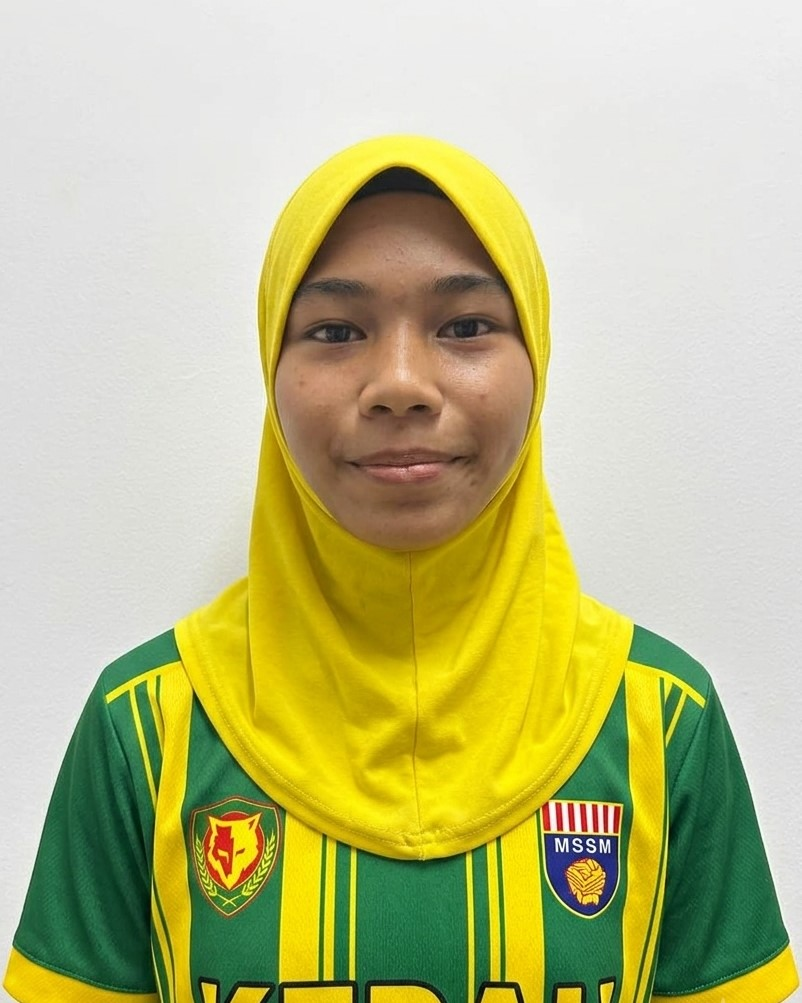
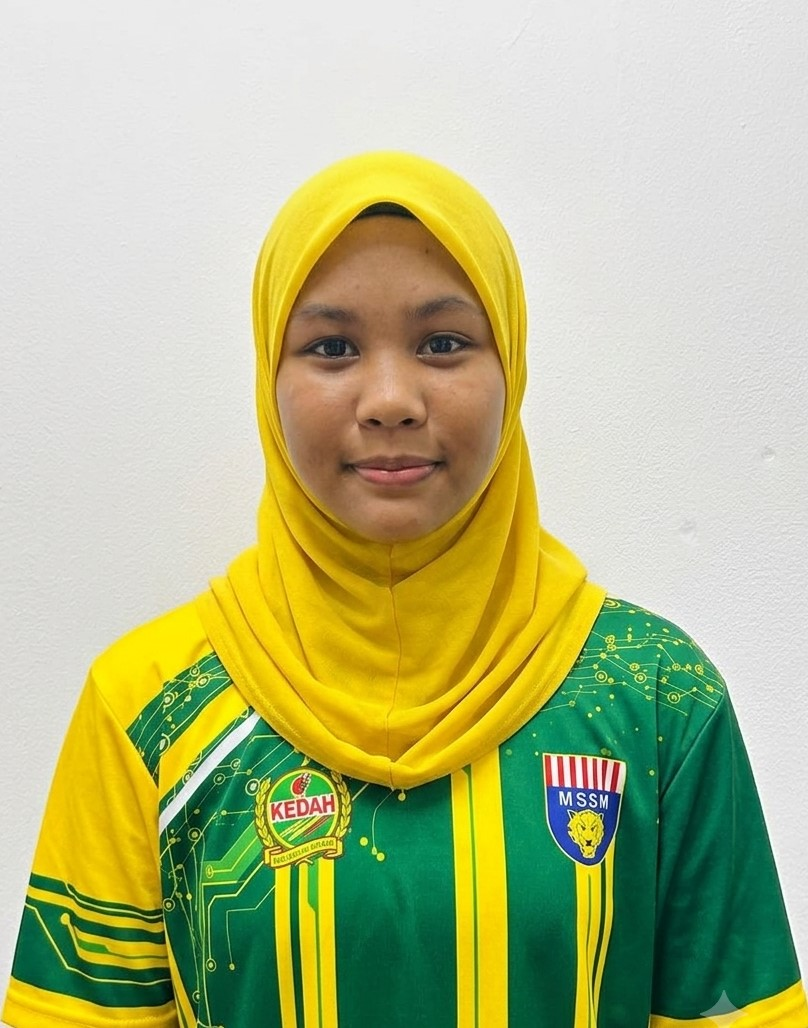
update portal mssm netball

diff --git a/albums/day1.html b/albums/day1.html
@@ -145,7 +145,7 @@
 
     <script src="../script.js"></script>
     <script>
-        const TOTAL_FILES = 120;
+        const TOTAL_FILES = 250;
         const files = [];
 
         for(let i=1; i<=TOTAL_FILES; i++){
